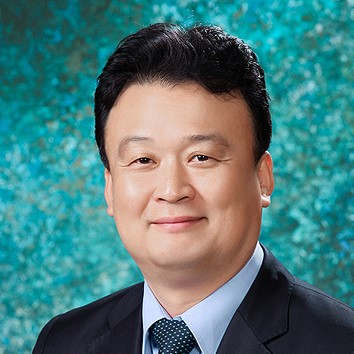
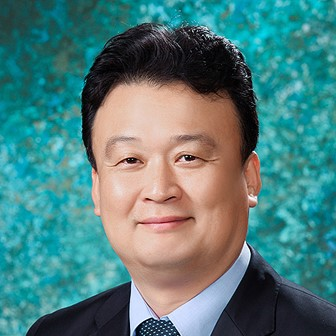
Advisory Modify
Change jop name.
Change ratio of face image
Modify desc to afill former job

diff --git a/src/data/advisory.js b/src/data/advisory.js
@@ -5,15 +5,15 @@ export const advisors = [
     image: 'Hakbae-Lee.jpg',
     company: 'Yonsei University - Department of Statstics & Datascience',
     degree: 'PhD (Statistics, University of Minnesota)',
-    desc: 'As a expert of Dimension Reduction and Statistical Linear Model, he have studied the application of quantum computing at the data science. Also, he worked as a Dean of Yonsei Graduate School of Economics'
+    desc: 'As an expert of Dimension Reduction and Statistical Linear Model, he have studied the application of quantum computing at the data science. He worked as a Dean of Yonsei Graduate School of Economics'
    },
    {
     name: 'Gabyoung Chung',
-    title: 'Professor',
+    title: 'Emeritus Professor',
     image: 'Gabyoung-Chung.jpg',
     company: 'Yonsei University - Department of Economics',
     degree: 'PhD (Economics, Cornell University)',
-    desc: 'He served as a president of Yonsei University and worked as Managing Director at International Economic Association. Also, he worked as visiting professor at Department of Economics, Cornell University'
+    desc: 'He is working as president of the Korean committee for UNICEF. He served as the former president of Yonsei University and the former managing director at International Economic Association.'
    },
    {
     name: 'InKweon Chung',
@@ -29,22 +29,22 @@ export const advisors = [
     image: 'Shin-Cho.jpg',
     company: 'Yonsei University - Graduate School of Information',
     degree: 'PhD (Economics, Washington University in St. Louis)',
-    desc: 'He have studied economics of technological innovation. He worked as Chief Executeve Officer at SK broadband and he served as Senior Secretary for Future Strategy of the Geunhye Park government'
+    desc: 'He served as Senior Secretary for Future Strategy of the Blue House and worked as Chief Executeve Officer at SK broadband. He have studied economics of technological innovation.'
    },
    {
     name: 'Daniel. K. Park',
-    title: 'Professor',
+    title: 'Assistant Professor',
     image: 'Daniel-K-Park.jpg',
     company: 'Yonsei University - Department of Statstics & Datascience',
     degree: 'PhD (Physics & Quantum Information, University of Waterloo)',
     desc: 'He is researching Quantum Neural Network and expanding it into various data science fields including anomaly detection and image recognition. He studied at the Institue for Quantum Computing at University of Waterloo'
    },
    {
-   name: 'Seong Su, Park',
-   title: 'Assistant Vice President',
-   company: 'ETRI - Quantum Technology Research Department',
-   image: 'Sungsu-Park.jpeg',
-   degree: 'PhD (Materials science & engineering, Korea Institute of Science and Technology)',
-   desc: 'He have worked as director of quantum technology research department of ETRI. He is designated as Convenor of Standard Evaluation Group 14 (Quantum Information) of IEC'
+    name: 'Seong Su, Park',
+    title: 'Assistant Vice President',
+    company: 'ETRI - Quantum Technology Research Department',
+    image: 'Sungsu-Park.jpeg',
+    degree: 'PhD (Materials science & engineering, Korea Institute of Science and Technology)',
+    desc: 'He have worked as director of quantum technology research department of ETRI. He is designated as Convenor of Standard Evaluation Group 14 (Quantum Information) of IEC'
   }
  ];
